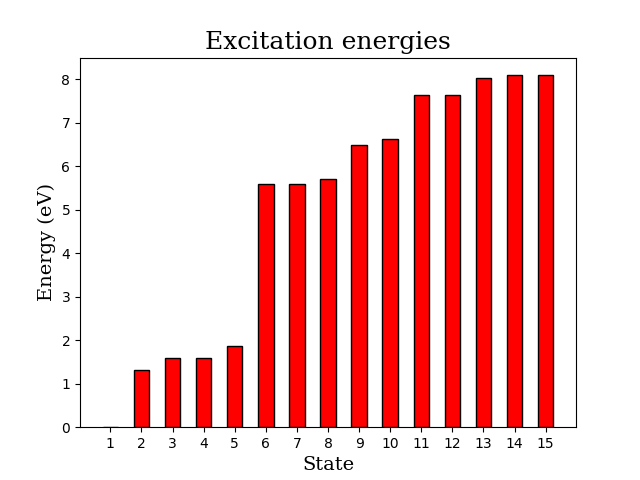
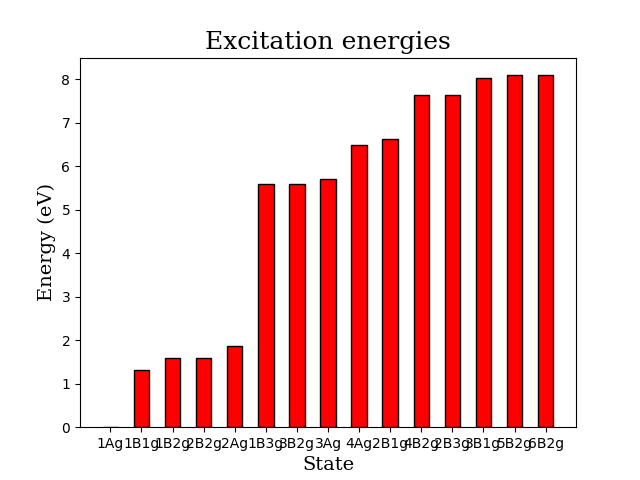
All g-tensor files with PyQchem parsers as python path

Changed region(s): [[0.1562, 0.9062, 0.875, 0.9375]]

diff --git a/doublets_expansion/g_main.py b/doublets_expansion/g_main.py
@@ -27,18 +27,18 @@ from g_plots import get_bar_chart, sos_analysis_and_plot
 # G-TENSOR CALCULATION
 g_calculation = 1
 ras_input = '../\
-RASCI_results/mncn5no_2-_def2tzvp_7_7_d5_sextet_enerproc.out' # str(sys.argv[1])'''
+RASCI_results/cu_mnt2_2-/cu_mnt2_2-_def2tzvp_19_11.out'  # str(sys.argv[1])'''
 
 selected_states = 1 # 0: use "state_ras" ; 1: use all states ; 2: use states by selected symmetry
-states_ras = [1,6] # States to be included when "selected_states = 0"
+states_ras = [1,2,3] # States to be included when "selected_states = 0"
 symmetry_selection = 'Ag' # Symmetry selected states
 selected_SOC = 0 # 0: Total mean-field SOC matrix; 1: 1-elec SOC matrix; 2: 2-elec mean-field SOC matrix
 
 # EXCITED STATES ANALYSIS IN ras
-excited_states_analysis = 1
+excited_states_analysis = 0
 new_active_space = 0
 sos_analysis = 0
-bar_plots = 0
+bar_plots = 1
 
 # eom ANALYSIS AND ras-eom ENERGIES EXCHANGE
 eom_information = 0
